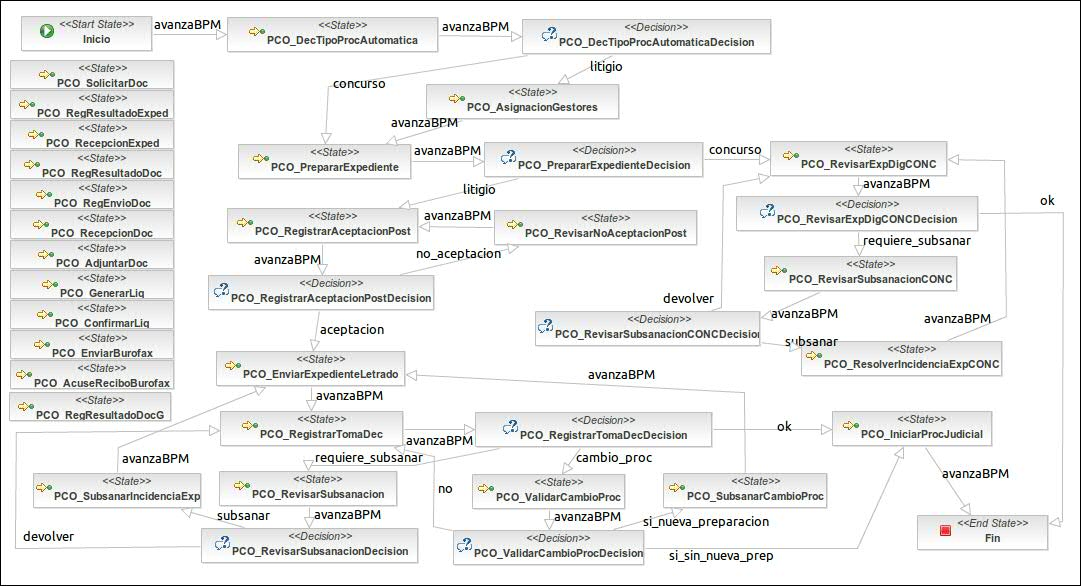
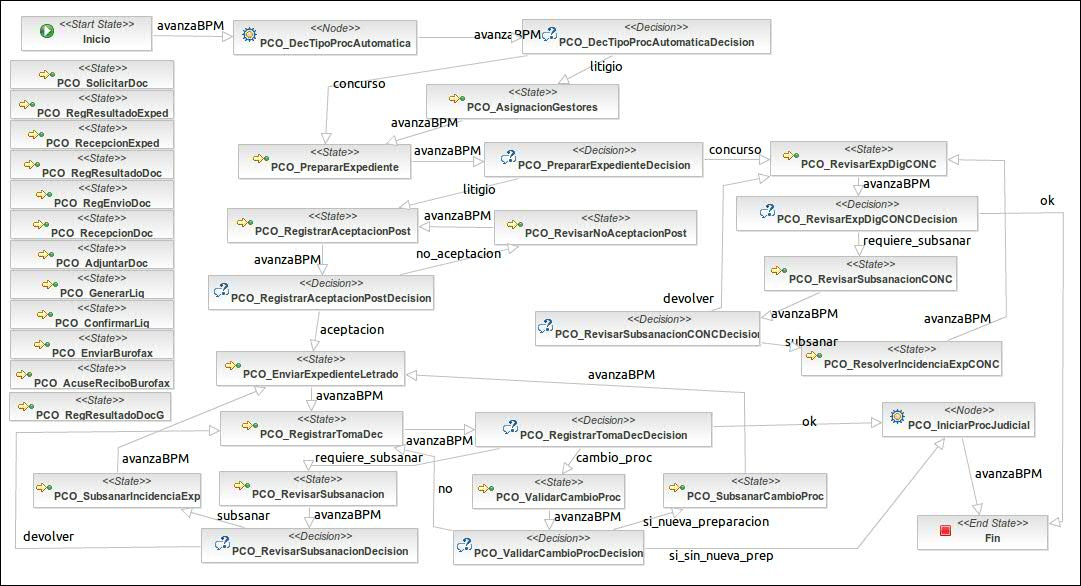
Incidencias 15/10/2015
Former-commit-id: f4e70afe56e332f6c0ba6feaf6399a23553ba4e8

diff --git a/recovery-precontencioso-plugin/src/main/java/es/pfsgroup/plugin/precontencioso/expedienteJudicial/handler/PrecontenciosoUserDecisionActionHandler.java b/recovery-precontencioso-plugin/src/main/java/es/pfsgroup/plugin/precontencioso/expedienteJudicial/handler/PrecontenciosoUserDecisionActionHandler.java
@@ -1,0 +1,65 @@
+package es.pfsgroup.plugin.precontencioso.expedienteJudicial.handler;
+
+import org.jbpm.graph.exe.ExecutionContext;
+import org.jbpm.graph.exe.ProcessInstance;
+import org.springframework.beans.factory.annotation.Autowired;
+
+import es.capgemini.devon.bo.Executor;
+import es.capgemini.pfs.asunto.model.Procedimiento;
+import es.capgemini.pfs.core.api.tareaNotificacion.TareaNotificacionApi;
+import es.capgemini.pfs.procesosJudiciales.model.EXTTareaProcedimiento;
+import es.capgemini.pfs.procesosJudiciales.model.TipoProcedimiento;
+import es.capgemini.pfs.tareaNotificacion.dao.SubtipoTareaDao;
+import es.capgemini.pfs.tareaNotificacion.model.DDTipoEntidad;
+import es.capgemini.pfs.tareaNotificacion.model.PlazoTareasDefault;
+import es.capgemini.pfs.tareaNotificacion.model.SubtipoTarea;
+import es.capgemini.pfs.tareaNotificacion.model.TareaNotificacion;
+import es.capgemini.pfs.tareaNotificacion.process.TareaBPMConstants;
+import es.pfsgroup.commons.utils.Checks;
+import es.pfsgroup.commons.utils.api.ApiProxyFactory;
+import es.pfsgroup.plugin.precontencioso.expedienteJudicial.manager.ProcedimientoPcoManager;
+import es.pfsgroup.plugin.precontencioso.expedienteJudicial.model.ProcedimientoPCO;
+import es.pfsgroup.procedimientos.PROBaseActionHandler;
+import es.pfsgroup.procedimientos.recoveryapi.JBPMProcessApi;
+
+public class PrecontenciosoUserDecisionActionHandler extends PROBaseActionHandler {
+
+	private static final long serialVersionUID = -2212945246713305195L;
+
+	@Autowired
+	private SubtipoTareaDao subtipoTareaDao;
+	
+	@Autowired
+	private ProcedimientoPcoManager pcoManager;
+
+	@Autowired
+	ApiProxyFactory proxyFactory;
+	
+	@Autowired
+	Executor executor;
+
+	@Override
+	public void run(ExecutionContext executionContext) throws Exception {
+
+		System.out.println(this.getClass().getSimpleName() + " llega a " + this.getNombreNodo(executionContext));
+		
+		Procedimiento prc = getProcedimiento(executionContext);
+
+		if (PrecontenciosoBPMConstants.PCO_DecTipoProcAutomatica.equals(getNombreNodo(executionContext))) {
+			String valorDecision = pcoManager.dameTipoAsunto(prc);
+			executionContext.setVariable(PrecontenciosoBPMConstants.PCO_DecTipoProcAutomatica + "Decision",valorDecision);
+		} else if (PrecontenciosoBPMConstants.PCO_IniciarProcJudicial.equals(getNombreNodo(executionContext))) {
+			executor.execute("plugin.precontencioso.cambiarEstadoExpediete", prc.getId(), PrecontenciosoBPMConstants.PCO_FINALIZADO);
+	        ProcedimientoPCO pco = (ProcedimientoPCO) executor.execute("plugin.precontencioso.getPCOByProcedimientoId", prc.getId());
+	        final TipoProcedimiento tipoProcedimientoHijo = (Checks.esNulo(pco.getTipoProcIniciado()) ? 
+	        		pco.getTipoProcPropuesto() : pco.getTipoProcIniciado());
+	        creaProcedimientoHijo(executionContext, tipoProcedimientoHijo, prc, null, null);
+	        //Avanzamos la tarea
+	        executionContext.getToken().signal();
+		}
+		
+		// Avanzamos BPM
+		executionContext.getToken().signal();
+	}
+
+}

diff --git a/recovery-precontencioso-plugin/src/main/java/es/pfsgroup/plugin/precontencioso/expedienteJudicial/handler/PrecontenciosoEnterActionHandler.java b/recovery-precontencioso-plugin/src/main/java/es/pfsgroup/plugin/precontencioso/expedienteJudicial/handler/PrecontenciosoEnterActionHandler.java
@@ -9,7 +9,9 @@ import org.springframework.beans.factory.annotation.Autowired;
 
 import es.capgemini.devon.bo.Executor;
 import es.capgemini.pfs.BPMContants;
+import es.capgemini.pfs.asunto.model.DDTiposAsunto;
 import es.capgemini.pfs.asunto.model.Procedimiento;
+import es.capgemini.pfs.comun.ComunBusinessOperation;
 import es.capgemini.pfs.procesosJudiciales.model.TareaExterna;
 import es.capgemini.pfs.procesosJudiciales.model.TareaProcedimiento;
 import es.capgemini.pfs.procesosJudiciales.model.TipoProcedimiento;
@@ -76,6 +78,10 @@ public class PrecontenciosoEnterActionHandler extends PROGenericEnterActionHandl
 			
 		} else if (PrecontenciosoBPMConstants.PCO_PrepararExpediente.equals(tex.getTareaProcedimiento().getCodigo())) {
 			
+			//Si es CONCURSO invocar inicializacion
+			if (DDTiposAsunto.CONCURSAL.equals(prc.getAsunto().getTipoAsunto().getCodigo())) {
+				executor.execute("plugin.precontencioso.inicializarPco", prc);
+			}
 			executor.execute("es.pfsgroup.plugin.precontencioso.expedienteJudicial.recalcularTareasPreparacionDocumental", prc.getId());
 			
 		} else if (PrecontenciosoBPMConstants.PCO_PostTurnado.equals(tex.getTareaProcedimiento().getCodigo())) {
@@ -98,14 +104,16 @@ public class PrecontenciosoEnterActionHandler extends PROGenericEnterActionHandl
 			
 		} else if (PrecontenciosoBPMConstants.PCO_IniciarProcJudicial.equals(tex.getTareaProcedimiento().getCodigo())) {
 			
-			executor.execute("plugin.precontencioso.cambiarEstadoExpediete", prc.getId(), PrecontenciosoBPMConstants.PCO_FINALIZADO);
-			
-	        ProcedimientoPCO pco = (ProcedimientoPCO) executor.execute("plugin.precontencioso.getPCOByProcedimientoId", prc.getId());
-	        final TipoProcedimiento tipoProcedimientoHijo = (Checks.esNulo(pco.getTipoProcIniciado()) ? 
-	        		pco.getTipoProcPropuesto() : pco.getTipoProcIniciado());
-
-	        creaProcedimientoHijo(executionContext, tipoProcedimientoHijo, prc, null, null);
-
+//			executor.execute("plugin.precontencioso.cambiarEstadoExpediete", prc.getId(), PrecontenciosoBPMConstants.PCO_FINALIZADO);
+//			
+//	        ProcedimientoPCO pco = (ProcedimientoPCO) executor.execute("plugin.precontencioso.getPCOByProcedimientoId", prc.getId());
+//	        final TipoProcedimiento tipoProcedimientoHijo = (Checks.esNulo(pco.getTipoProcIniciado()) ? 
+//	        		pco.getTipoProcPropuesto() : pco.getTipoProcIniciado());
+//
+//	        creaProcedimientoHijo(executionContext, tipoProcedimientoHijo, prc, null, null);
+//	        
+//	        //Avanzamos la tarea
+//	        executionContext.getToken().signal();
 			
 		} else if (PrecontenciosoBPMConstants.PCO_SubsanarIncidenciaExp.equals(tex.getTareaProcedimiento().getCodigo())) {
 			

diff --git a/recovery-precontencioso-plugin/src/main/java/es/pfsgroup/plugin/precontencioso/expedienteJudicial/manager/ProcedimientoPcoManager.java b/recovery-precontencioso-plugin/src/main/java/es/pfsgroup/plugin/precontencioso/expedienteJudicial/manager/ProcedimientoPcoManager.java
@@ -425,17 +425,14 @@ public class ProcedimientoPcoManager implements ProcedimientoPcoApi {
 	 * @param idProcedimiento
 	 * @return
 	 */
-	public String dameTipoAsunto(Long idProcedimiento) {
+	public String dameTipoAsunto(Procedimiento procedimiento) {
 		String resultado = "";
 		try {		
-			ProcedimientoPCO procedimientoPco = procedimientoPcoDao.getProcedimientoPcoPorIdProcedimiento(idProcedimiento);
-			if (procedimientoPco != null) {
-				String tipoAsunto = procedimientoPco.getProcedimiento().getAsunto().getTipoAsunto().getCodigo();
-				if (DDTiposAsunto.LITIGIO.equals(tipoAsunto)){
-					resultado = LITIGIO;
-				} else if (DDTiposAsunto.CONCURSAL.equals(tipoAsunto)){
-					resultado = CONCURSO;
-				}
+			String tipoAsunto = procedimiento.getAsunto().getTipoAsunto().getCodigo();
+			if (DDTiposAsunto.LITIGIO.equals(tipoAsunto)){
+				resultado = LITIGIO;
+			} else if (DDTiposAsunto.CONCURSAL.equals(tipoAsunto)){
+				resultado = CONCURSO;
 			}
 		} catch (Exception e) {}
 		return resultado;
@@ -532,7 +529,8 @@ public class ProcedimientoPcoManager implements ProcedimientoPcoApi {
 			
 			//Creamos un burofax por cada contrato-persona (si tipo de asuto es Litigio)
 			List<BurofaxPCO> burofaxes = new ArrayList<BurofaxPCO>();
-			if (DDTiposAsunto.LITIGIO.equals(procedimiento.getAsunto().getTipoAsunto().getCodigo())) {
+			boolean esLitigio = DDTiposAsunto.LITIGIO.equals(procedimiento.getAsunto().getTipoAsunto().getCodigo());
+			if (esLitigio) {
 				burofaxes = obtenerNuevosBurofaxes(procedimientoPco, contratosPersonas);
 			}
 			
@@ -540,12 +538,14 @@ public class ProcedimientoPcoManager implements ProcedimientoPcoApi {
 			procedimientoPco.setLiquidaciones(liquidaciones);
 			procedimientoPco.setBurofaxes(burofaxes);
 			genericDao.save(ProcedimientoPCO.class, procedimientoPco);
-			
-			if (documentos.size()>0) {
-				gestorTareasManager.crearTareaEspecial(idProc,PrecontenciosoBPMConstants.PCO_SolicitarDoc);
-			}
-			if (liquidaciones.size()>0) {
-				gestorTareasManager.crearTareaEspecial(idProc,PrecontenciosoBPMConstants.PCO_GenerarLiq);
+
+			if (esLitigio) {
+				if (documentos.size()>0) {
+					gestorTareasManager.crearTareaEspecial(idProc,PrecontenciosoBPMConstants.PCO_SolicitarDoc);
+				}
+				if (liquidaciones.size()>0) {
+					gestorTareasManager.crearTareaEspecial(idProc,PrecontenciosoBPMConstants.PCO_GenerarLiq);
+				}
 			}
 			
 		} catch (Exception e) {

diff --git a/recovery-precontencioso-plugin/src/main/java/es/pfsgroup/plugin/precontencioso/expedienteJudicial/handler/PrecontenciosoLeaveActionHandler.java b/recovery-precontencioso-plugin/src/main/java/es/pfsgroup/plugin/precontencioso/expedienteJudicial/handler/PrecontenciosoLeaveActionHandler.java
@@ -123,11 +123,6 @@ public class PrecontenciosoLeaveActionHandler extends PROGenericLeaveActionHandl
 			executor.execute("plugin.precontencioso.inicializarPco", prc);
 			
 		} else if (PrecontenciosoBPMConstants.PCO_DecTipoProcAutomatica.equals(tex.getTareaProcedimiento().getCodigo())) {
-
-			//Si es CONCURSO invocar inicializacion
-			if (DDTiposAsunto.CONCURSAL.equals(prc.getAsunto().getTipoAsunto().getCodigo())) {
-				executor.execute("plugin.precontencioso.inicializarPco", prc);
-			}
 			
 		}
 		
